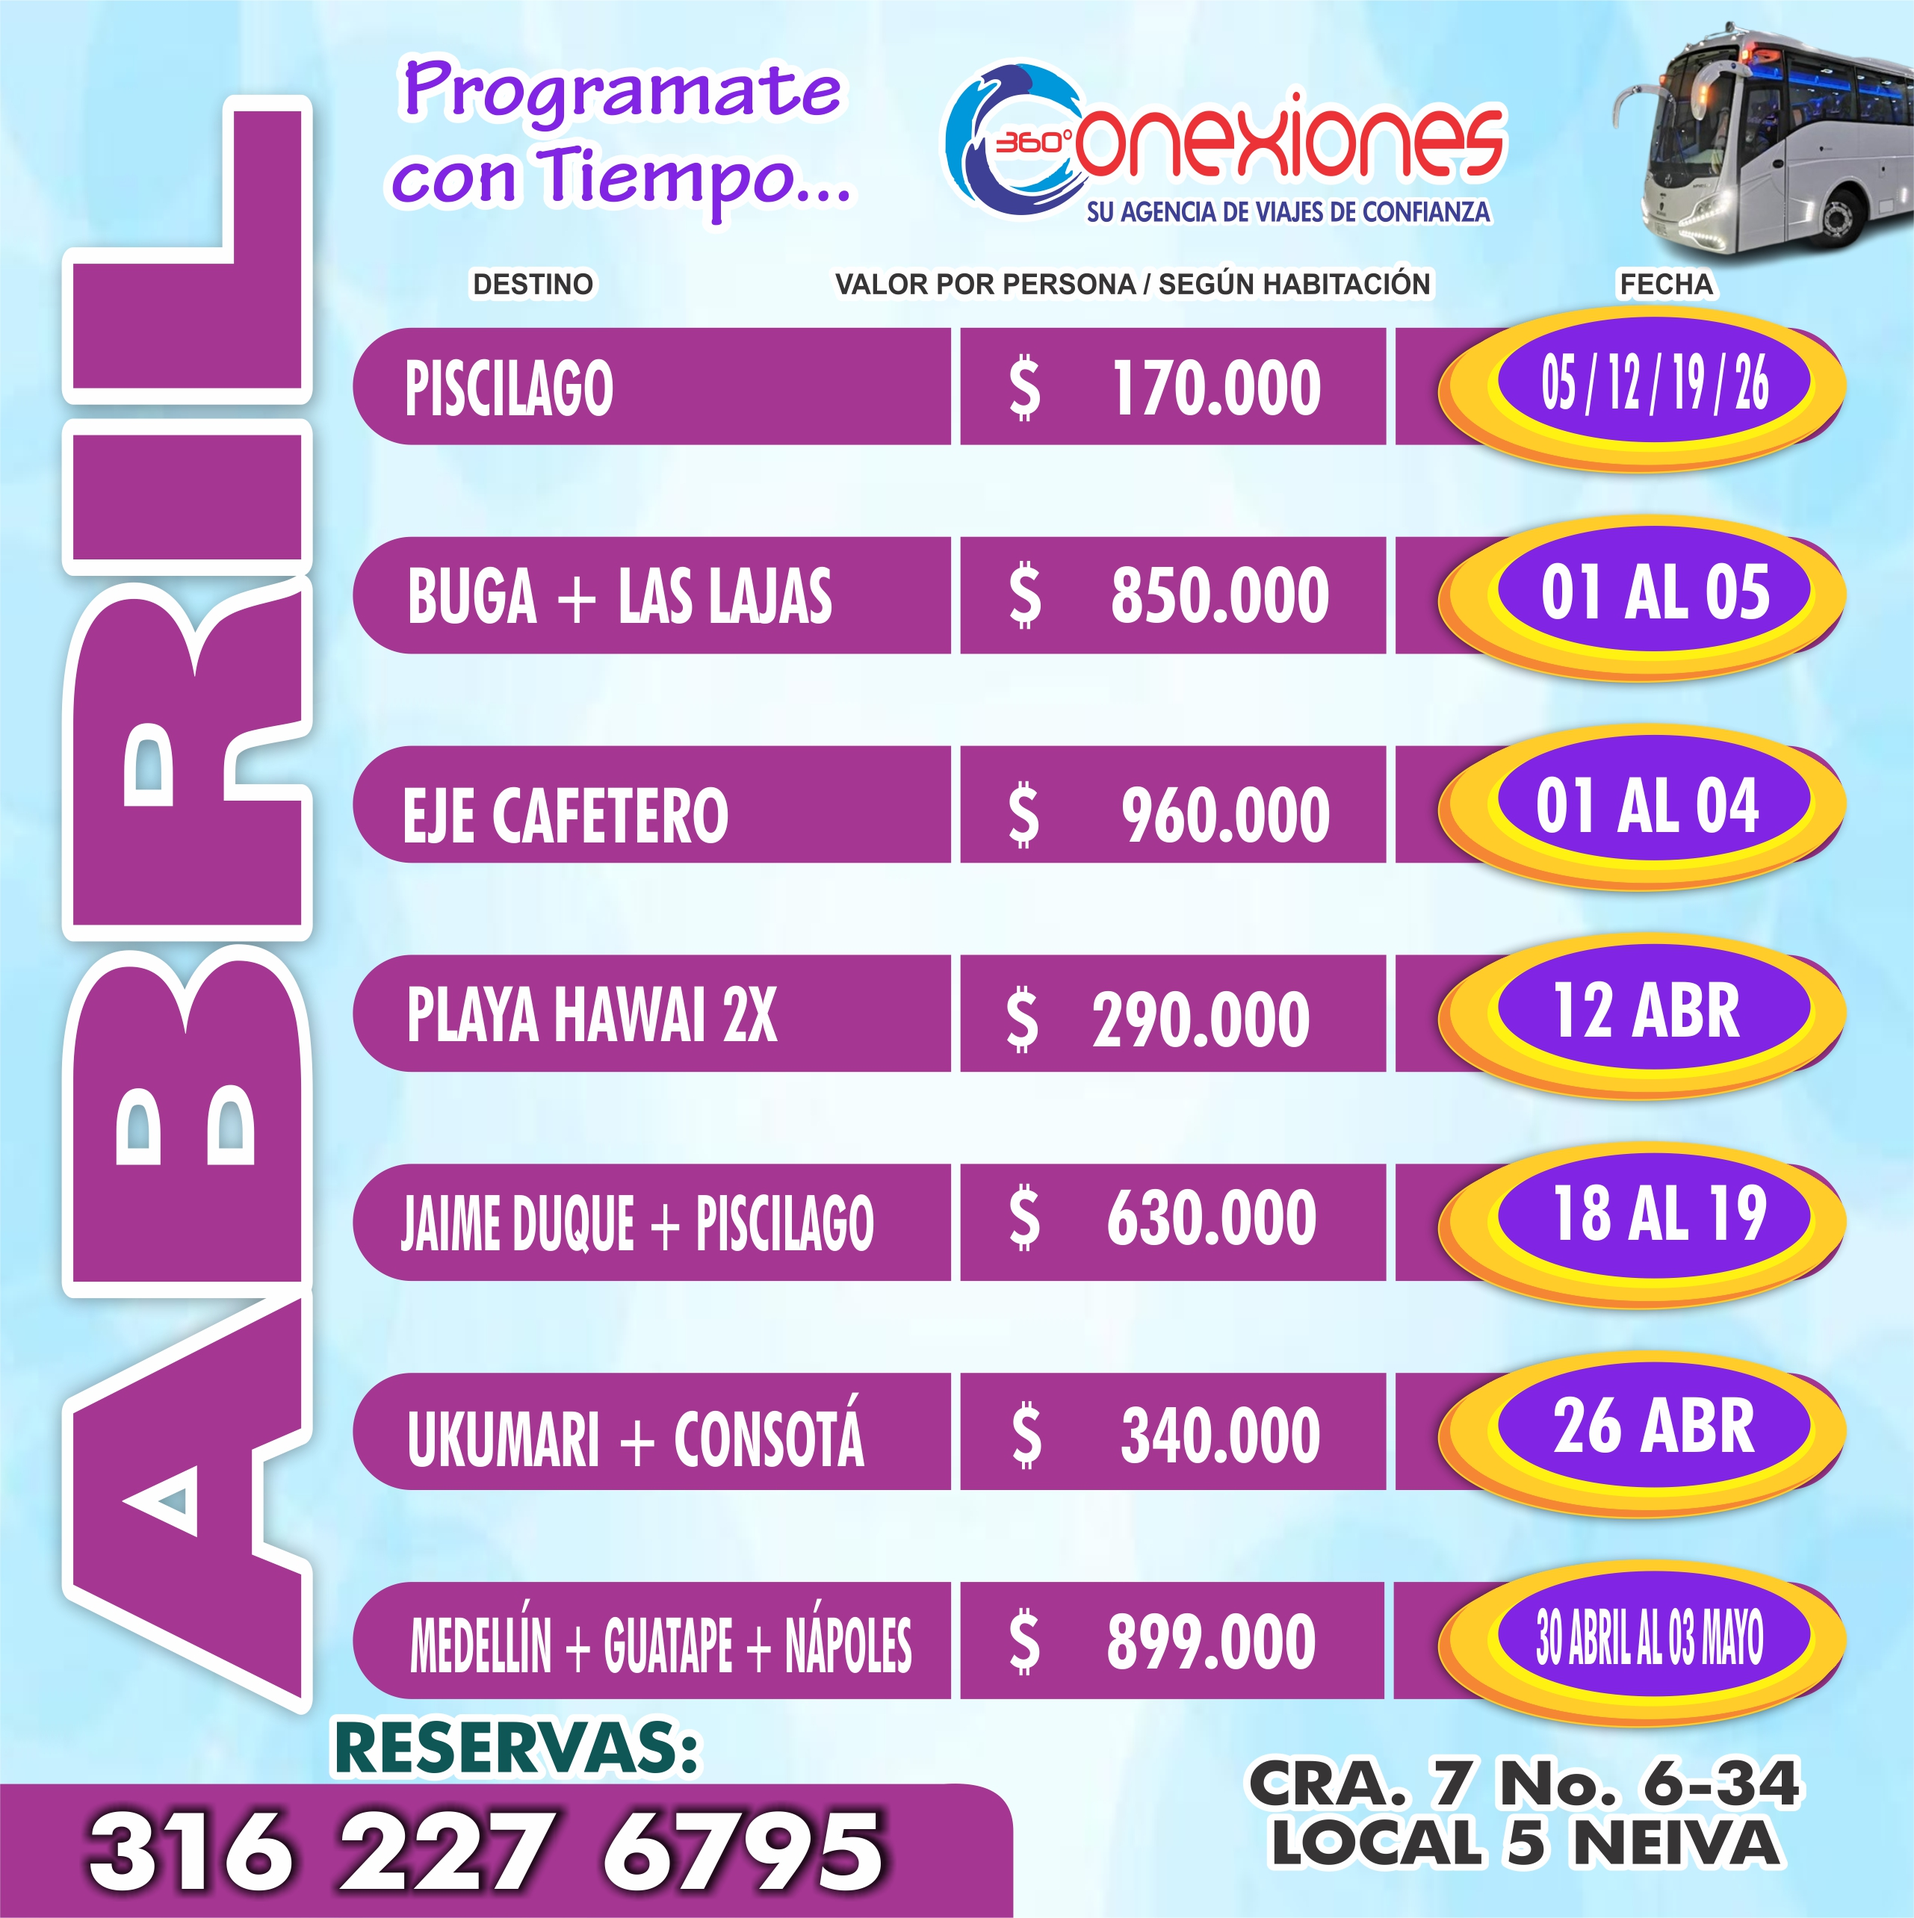
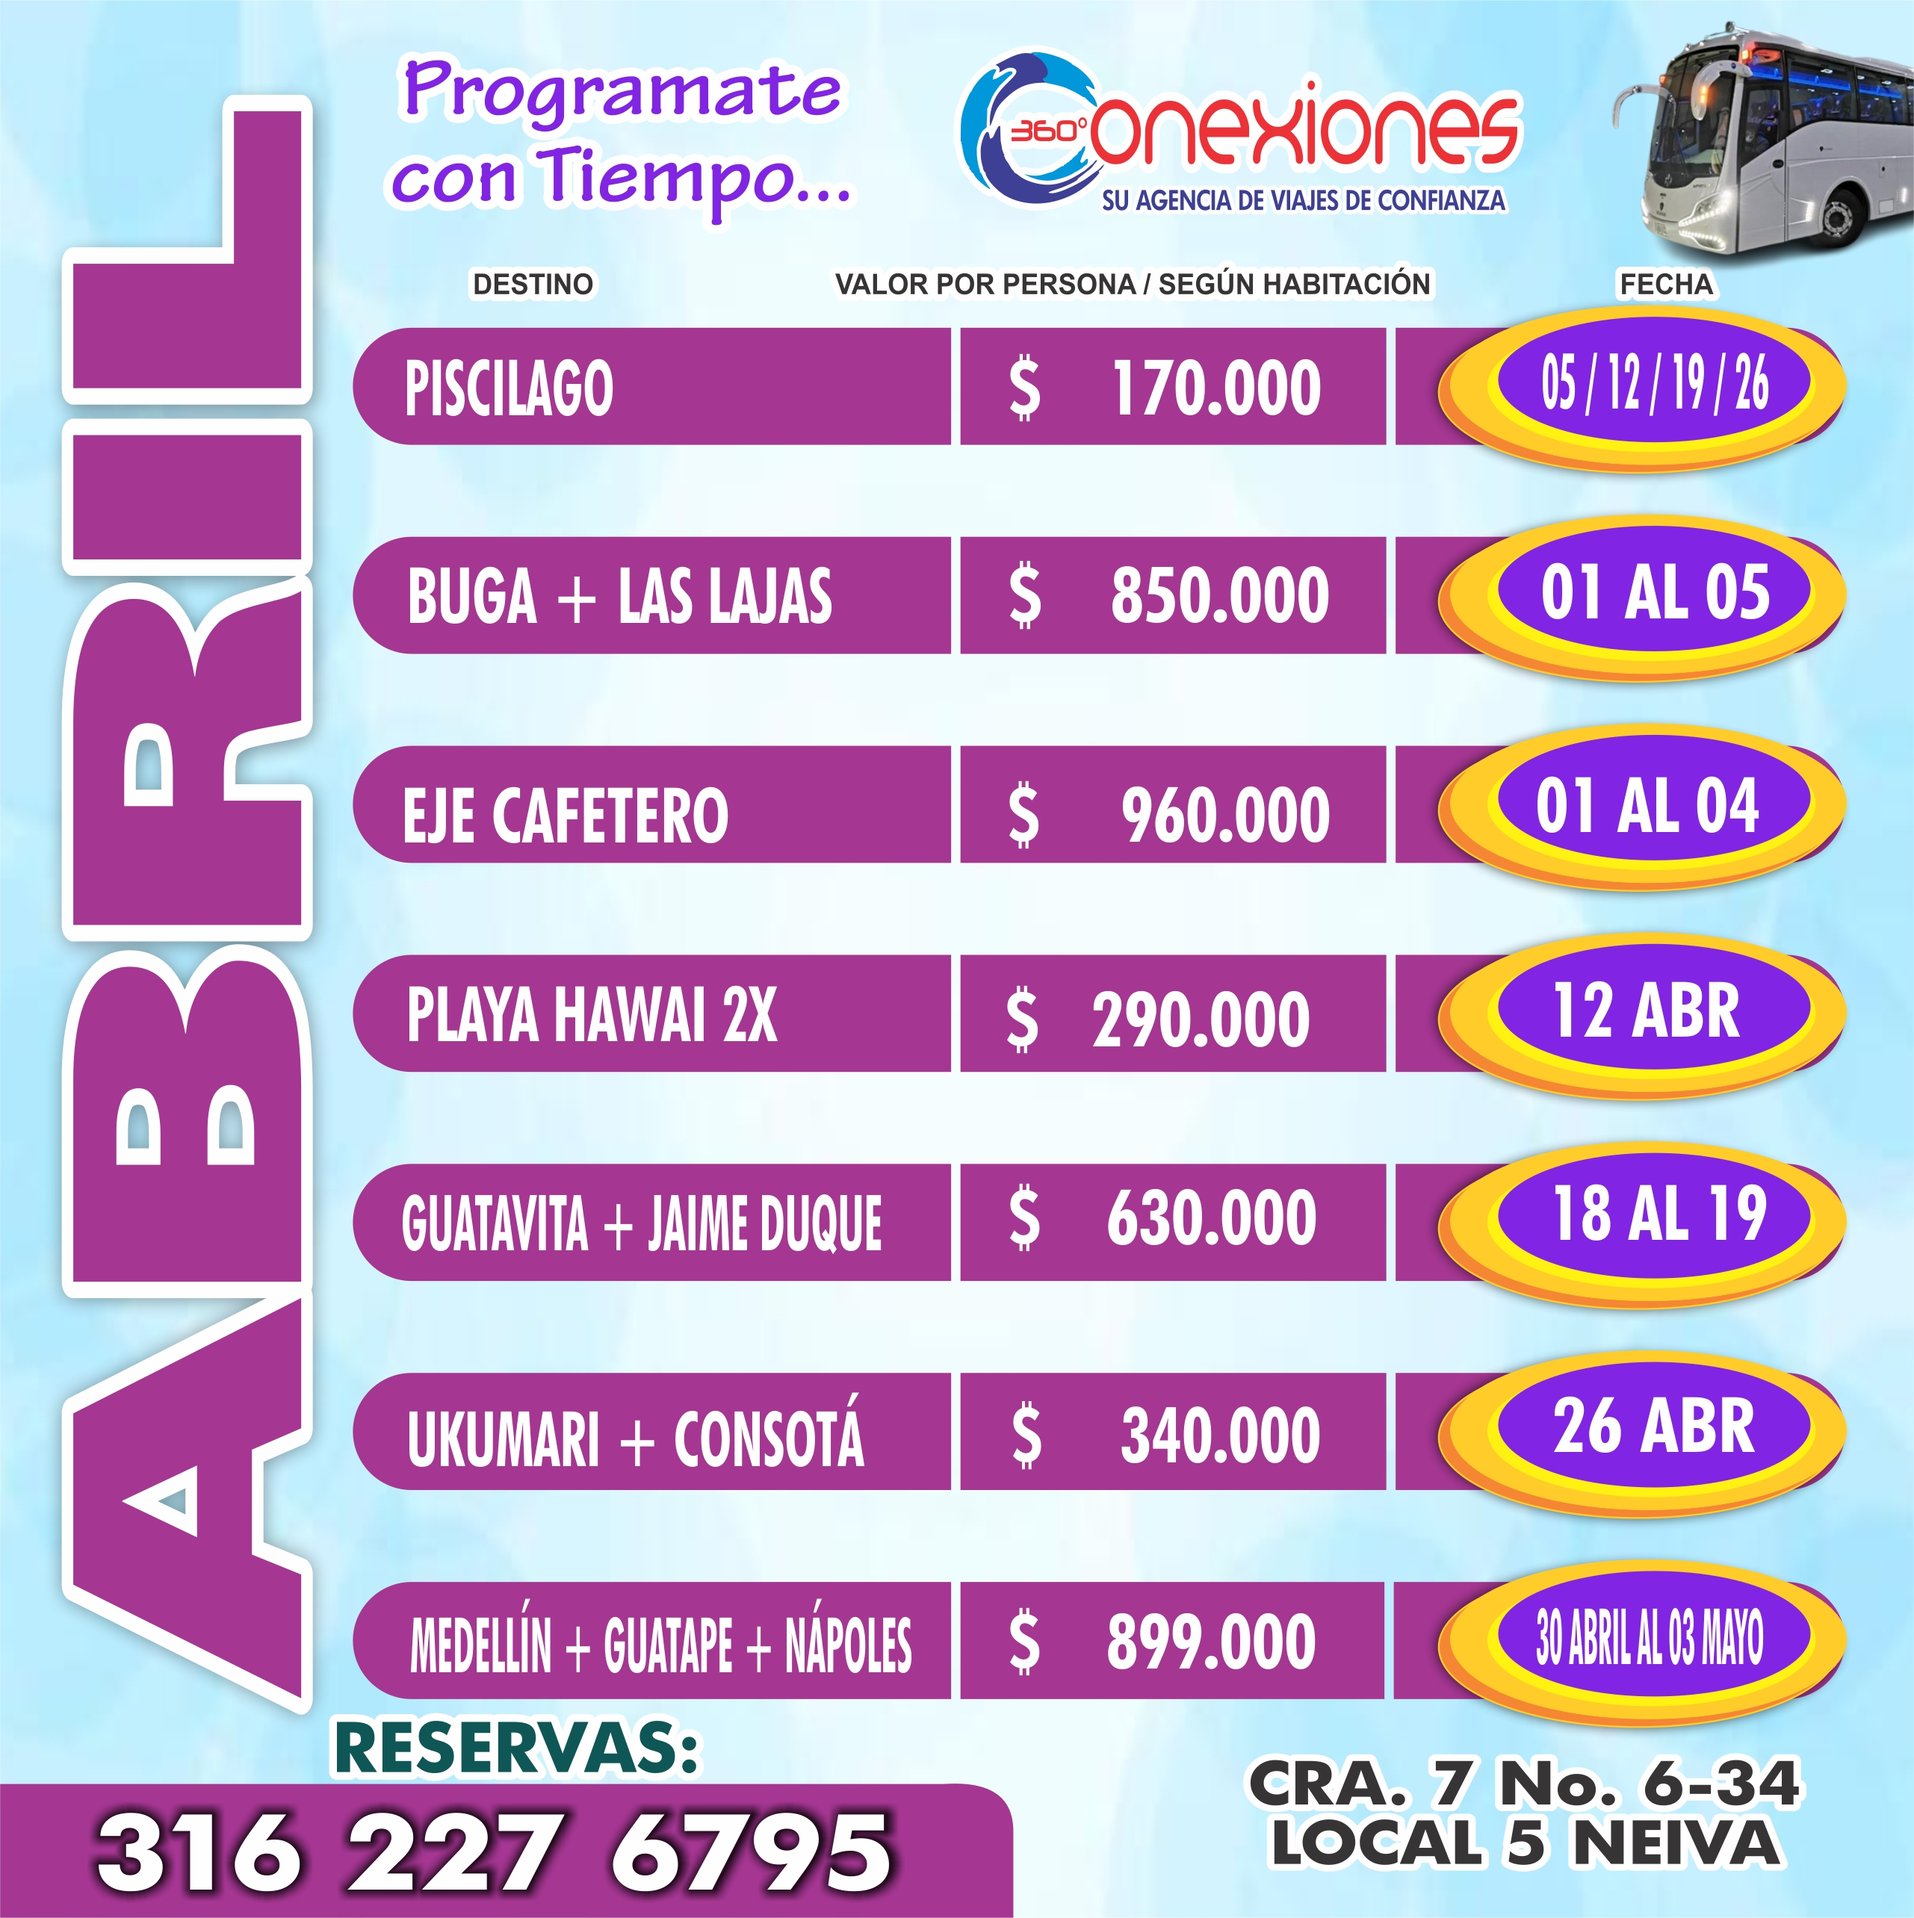
Abril correccion 120226

Changed region(s): [[0.4684, 0.0, 0.8119, 0.1246], [0.0312, 0.9346, 0.4684, 0.9969], [0.1874, 0.6231, 0.4684, 0.6542]]

diff --git a/src/data/flyers/flyers.ts b/src/data/flyers/flyers.ts
@@ -3,7 +3,7 @@ export type FlyerPlan = {
   mes: "enero" | "febrero" | "marzo" | "abril" | "mayo" | "junio" | "julio" | "agosto" | "septiembre" | "octubre" | "noviembre" | "diciembre";
   tipo: "terrestre" | "aereo";
   titulo: string;
-  fechas: string[]; // 👈 AQUÍ LA CLAVE
+  fechas: string[]; 
   precio: number;
   imagen: string;
   whatsappBase: string;
@@ -398,12 +398,12 @@ export const flyers: FlyerPlan[] = [
     id: "parquejaimeduque-abril",
     mes: "abril",
     tipo: "terrestre",
-    titulo: "Parque Jaime Duque con Piscilago",
+    titulo: "Guatavita y Parque Jaime Duque",
     fechas: ["Abril 18 al 19"],
     precio: 630000,
     imagen: "/Abril2026/jaimeduque.jpg",
     whatsappBase:
-      "Hola Conexiones360, quiero información del plan Parque Jaime Duque",
+      "Hola Conexiones360, quiero información del plan Guatavita y Parque Jaime Duque",
   },
           {
     id: "ukumari-abril",
